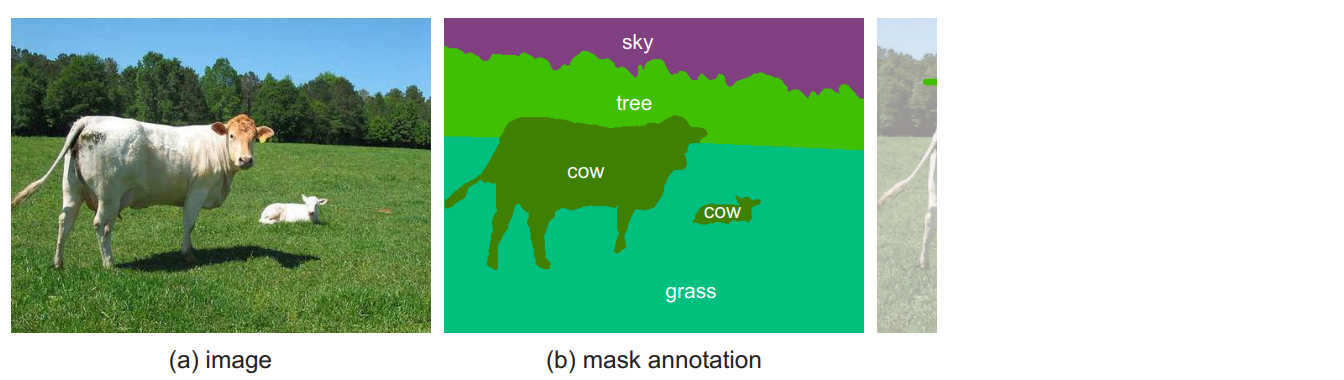
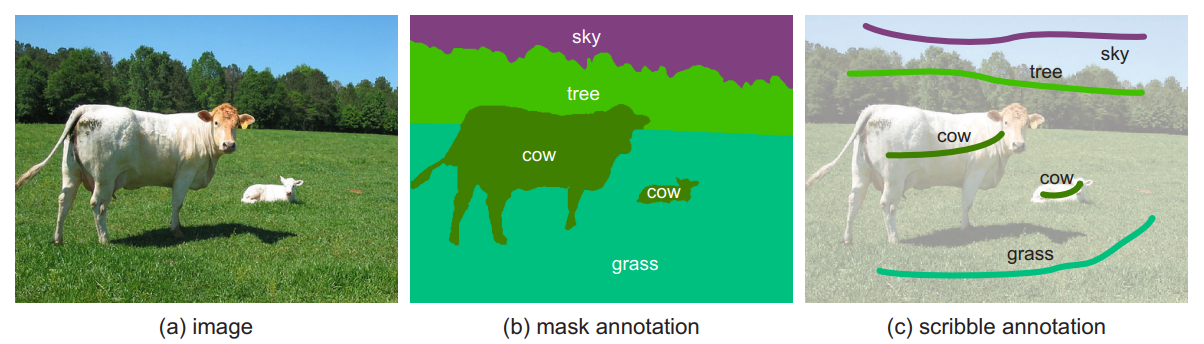
Updated Illustration and descriptions

diff --git a/README.md b/README.md
@@ -3,6 +3,11 @@
 #### Official PyTorch Implementation
 
 ![method](https://raw.githubusercontent.com/Baconbuilder/Scribble_WILSON/master/docs/graph.png)
+```
+Illustration from "ScribbleSup: Scribble-Supervised Convolutional Networks for Semantic Segmentation"
+Di Lin, Jifeng Dai, Jiaya Jia, Kaiming He, and Jian Sun
+IEEE Conference on Computer Vision and Pattern Recognition (CVPR), 2016
+```
 
 This project introduces a framework for weakly incremental learning in semantic segmentation tasks, aimed at incorporating scribble annotations for efficient model updating. While traditional semantic segmentation approaches have shown remarkable performance, updating models incrementally with new categories remains a challenge. Additionally, the annotation process, particularly pixel-by-pixel annotations, is laborious and time-consuming.
 
@@ -12,8 +17,8 @@ The proposed framework leverages scribble annotations, which offer a more cost-e
 ### Requirements
 The code has been tested with the following versions:
 ```
-python >= 3.7
-pytorch > 1.6
+python == 3.7.16
+pytorch > 1.8.0
 ```
 If you want to install a custom environment for this code, you can run the following using [conda](https://docs.conda.io/projects/conda/en/latest/commands/install.html):
 ```
